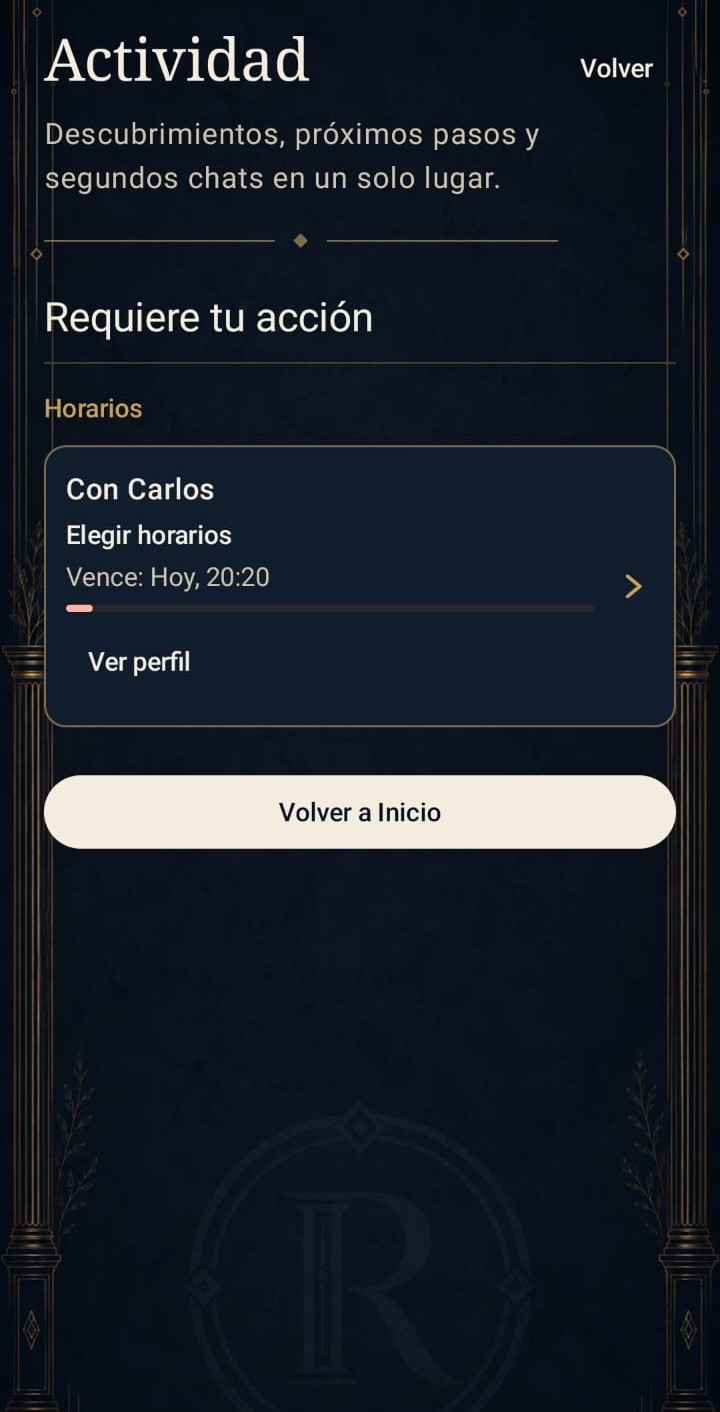
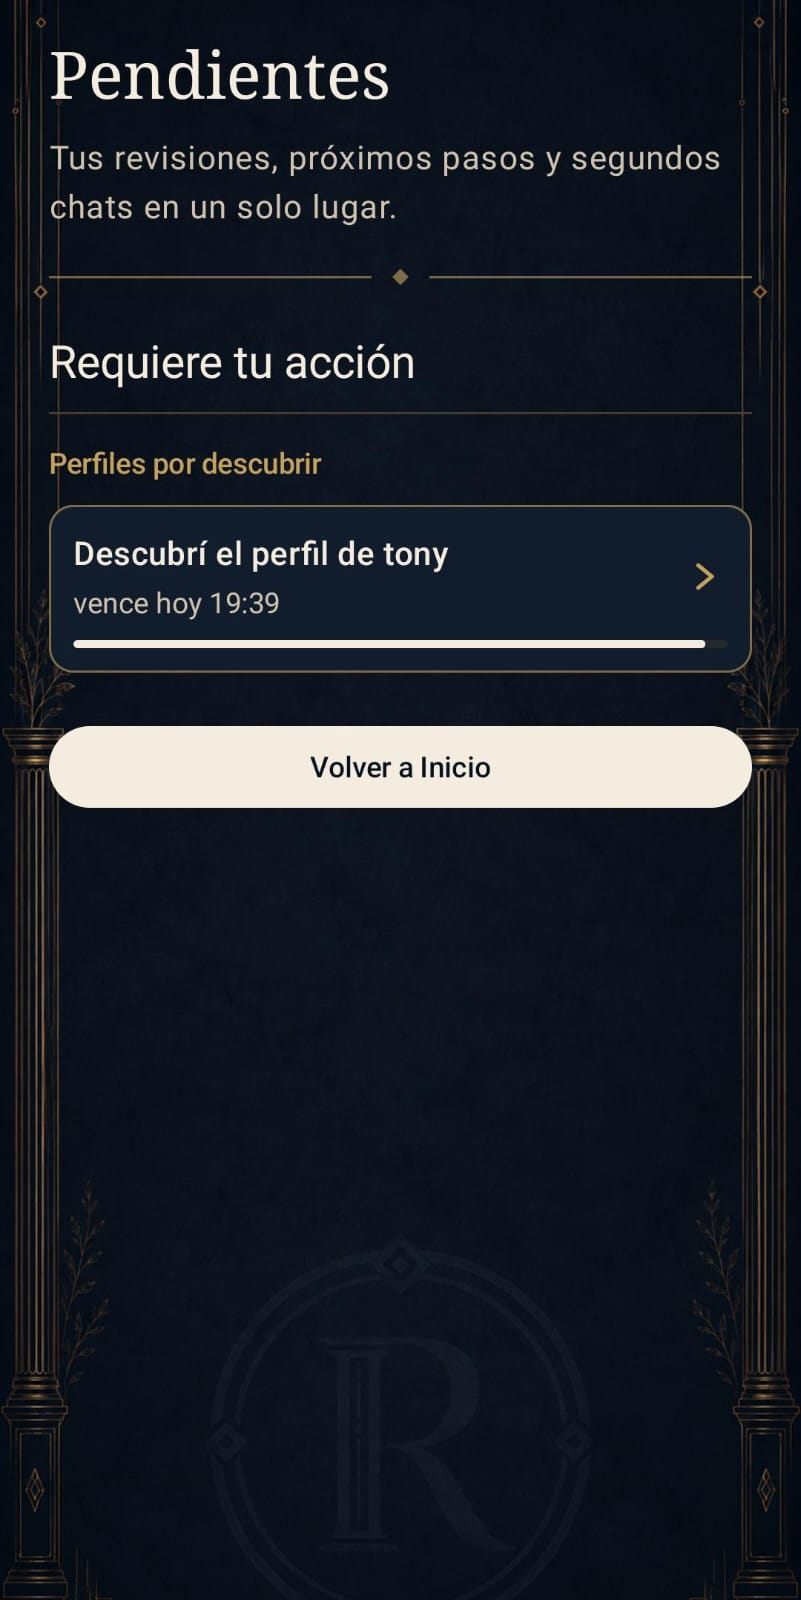
chamba card

diff --git a/src/components/OtherWork.tsx b/src/components/OtherWork.tsx
@@ -1,6 +1,46 @@
+import { useEffect, useRef, useState } from "react";
 import { otherProjects } from "../data/projects";
 
 export function OtherWork() {
+  const [activeImage, setActiveImage] = useState<{
+    src: string;
+    alt: string;
+    label: string;
+  } | null>(null);
+  const closeButtonRef = useRef<HTMLButtonElement | null>(null);
+  const activeTriggerRef = useRef<HTMLButtonElement | null>(null);
+
+  const closeLightbox = () => {
+    const trigger = activeTriggerRef.current;
+
+    setActiveImage(null);
+    window.setTimeout(() => trigger?.focus(), 0);
+  };
+
+  useEffect(() => {
+    if (!activeImage) {
+      return;
+    }
+
+    const previousOverflow = document.body.style.overflow;
+
+    document.body.style.overflow = "hidden";
+    closeButtonRef.current?.focus();
+
+    const handleKeyDown = (event: KeyboardEvent) => {
+      if (event.key === "Escape") {
+        closeLightbox();
+      }
+    };
+
+    document.addEventListener("keydown", handleKeyDown);
+
+    return () => {
+      document.body.style.overflow = previousOverflow;
+      document.removeEventListener("keydown", handleKeyDown);
+    };
+  }, [activeImage]);
+
   return (
     <section className="section other-work" aria-labelledby="other-work-title">
       <div className="container">
@@ -12,9 +52,27 @@ export function OtherWork() {
         <div className="other-work-grid">
           {otherProjects.map((project) => (
             <article className="project-card" key={project.name}>
-              <div className="project-card-placeholder" aria-label={project.placeholder}>
-                <span>{project.placeholder}</span>
-              </div>
+              {project.image ? (
+                <button
+                  className="project-card-image"
+                  type="button"
+                  aria-label={`Open ${project.name} preview image`}
+                  onClick={(event) => {
+                    activeTriggerRef.current = event.currentTarget;
+                    setActiveImage({
+                      src: project.image.src,
+                      alt: project.image.alt,
+                      label: project.name,
+                    });
+                  }}
+                >
+                  <img src={project.image.src} alt={project.image.alt} loading="lazy" />
+                </button>
+              ) : (
+                <div className="project-card-placeholder" aria-label={project.placeholder}>
+                  <span>{project.placeholder}</span>
+                </div>
+              )}
               <div className="project-card-body">
                 {project.eyebrow ? <p className="project-label">{project.eyebrow}</p> : null}
                 <h3>{project.name}</h3>
@@ -30,6 +88,36 @@ export function OtherWork() {
             </article>
           ))}
         </div>
+
+        {activeImage ? (
+          <div
+            className="project-image-lightbox"
+            role="dialog"
+            aria-modal="true"
+            aria-labelledby="project-image-lightbox-title"
+            onMouseDown={(event) => {
+              if (event.target === event.currentTarget) {
+                closeLightbox();
+              }
+            }}
+          >
+            <button
+              className="project-image-lightbox-close"
+              type="button"
+              aria-label="Close image preview"
+              onClick={closeLightbox}
+              ref={closeButtonRef}
+            >
+              ×
+            </button>
+            <figure className="project-image-lightbox-figure">
+              <img src={activeImage.src} alt={activeImage.alt} />
+              <figcaption id="project-image-lightbox-title">
+                {activeImage.label}
+              </figcaption>
+            </figure>
+          </div>
+        ) : null}
       </div>
     </section>
   );

diff --git a/src/styles/global.css b/src/styles/global.css
@@ -827,6 +827,35 @@ ul {
   text-align: center;
 }
 
+.project-card-image {
+  display: block;
+  width: 100%;
+  min-height: 210px;
+  padding: 0;
+  overflow: hidden;
+  border: 0;
+  border-bottom: 1px solid var(--color-line);
+  background: #eee8dd;
+  cursor: zoom-in;
+}
+
+.project-card-image img {
+  display: block;
+  width: 100%;
+  height: 210px;
+  object-fit: contain;
+  background: #f6f1e8;
+}
+
+.project-card-image:hover img {
+  filter: brightness(1.02) contrast(1.02);
+}
+
+.project-card-image:focus-visible {
+  outline: 2px solid var(--color-accent);
+  outline-offset: -5px;
+}
+
 .project-card-body {
   padding: 1.5rem;
 }
@@ -843,6 +872,65 @@ ul {
 .project-stack {
   color: var(--color-ink);
   font-weight: 700;
+}
+
+.project-image-lightbox {
+  position: fixed;
+  z-index: 100;
+  inset: 0;
+  display: grid;
+  place-items: center;
+  padding: clamp(1rem, 3vw, 2rem);
+  background: rgba(9, 13, 15, 0.86);
+}
+
+.project-image-lightbox-figure {
+  margin: 0;
+  text-align: center;
+}
+
+.project-image-lightbox-figure img {
+  display: block;
+  max-width: 94vw;
+  max-height: 84vh;
+  width: auto;
+  height: auto;
+  border: 1px solid rgba(255, 250, 241, 0.18);
+  border-radius: 18px;
+  box-shadow: 0 28px 90px rgba(0, 0, 0, 0.48);
+}
+
+.project-image-lightbox-figure figcaption {
+  margin-top: 0.85rem;
+  color: rgba(255, 250, 241, 0.78);
+  font-size: 0.86rem;
+  font-weight: 760;
+  letter-spacing: 0.08em;
+  text-transform: uppercase;
+}
+
+.project-image-lightbox-close {
+  position: absolute;
+  top: 1rem;
+  right: 1rem;
+  width: 2.75rem;
+  height: 2.75rem;
+  border: 1px solid rgba(255, 250, 241, 0.18);
+  border-radius: 999px;
+  background: rgba(255, 250, 241, 0.08);
+  color: #fffaf1;
+  cursor: pointer;
+  font-size: 1.7rem;
+  line-height: 1;
+}
+
+.project-image-lightbox-close:hover {
+  background: rgba(255, 250, 241, 0.14);
+}
+
+.project-image-lightbox-close:focus-visible {
+  outline: 2px solid var(--color-accent-soft);
+  outline-offset: 4px;
 }
 
 .contact-section {

diff --git a/src/data/projects.ts b/src/data/projects.ts
@@ -91,6 +91,10 @@ export const otherProjects = [
         href: "https://github.com/Gtestino92/chamba-hunter",
       },
     ],
+    image: {
+      src: "/projects/chamba-hunter/shortlist.PNG",
+      alt: "Excel shortlist generated by the Chamba Hunter job-discovery and prioritization pipeline.",
+    },
     placeholder: "Future Excel shortlist screenshot",
   },
   {
